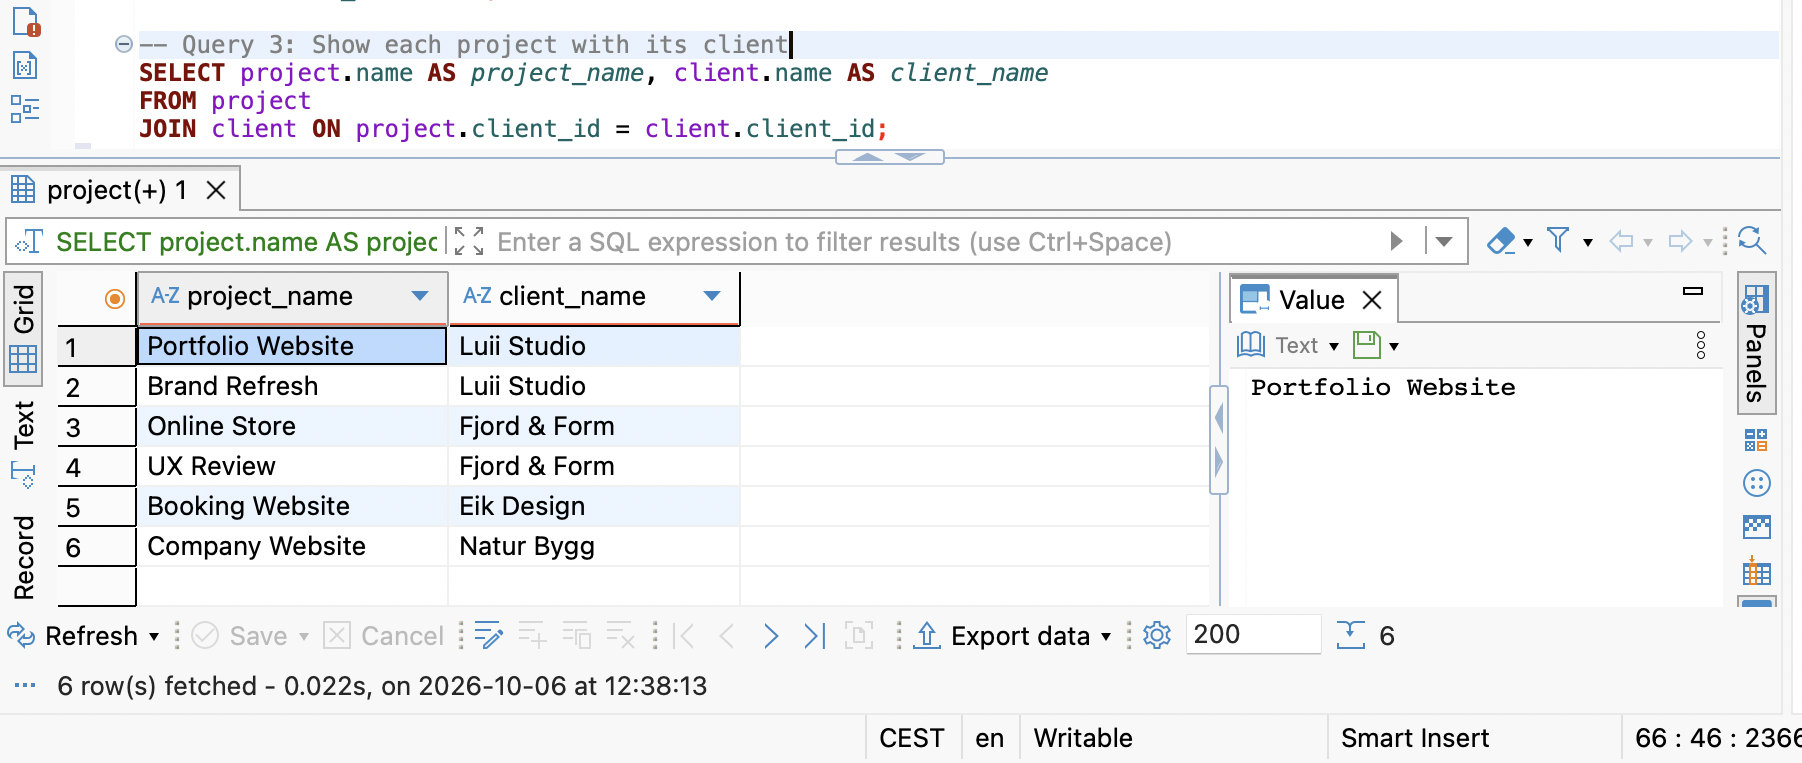
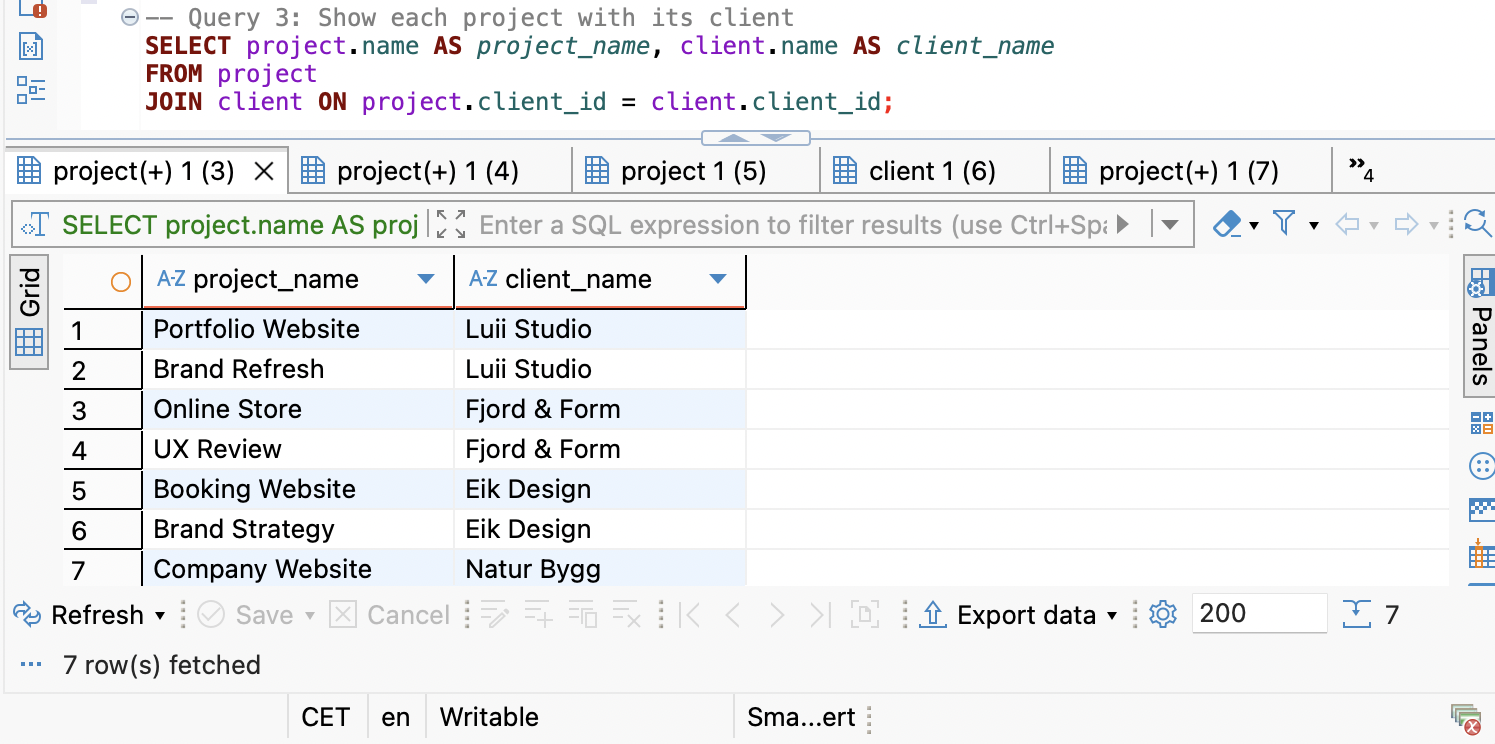
Improve test data and queries based on feedback

diff --git a/README.md b/README.md
@@ -28,7 +28,7 @@ This query combines project and client data to show which client each project be
 
 #### Aggregate Function and GROUP BY
 
-This query calculates the total service cost for each project using `SUM` and `GROUP BY`.
+This query calculates the total service cost and counts the services assigned to each project using SUM, COUNT, and GROUP BY. Only projects with assigned services are included.
 
 ![GROUP BY query result](docs/query5_total_cost.png)
 
@@ -43,6 +43,14 @@ This query counts the projects for each client and uses `HAVING` to show clients
 This query uses a subquery to find service entries with a price above the average service price.
 
 ![Subquery result](docs/query7_subquery.png)
+
+### Improvements After Feedback
+
+I added a planned project, Brand Strategy, so the test data still includes active, completed, and planned projects after the UPDATE statement.
+
+Query 1 now shows active projects with their clients, ordered by start date. Query 2 shows planned projects starting from November 2026, including the client for each project.
+
+I combined the total service cost and service count into Query 5 because they use the same join and grouping. Query 8 now finds projects without assigned services using LEFT JOIN and IS NULL. Brand Strategy provides a test case for this query.
 
 ### How to Run
 
@@ -62,7 +70,9 @@ A running PostgreSQL server and a database client such as DBeaver are required.
 
 ### Setup and Testing
 
-The database was created using PostgreSQL running in Docker and tested through DBeaver. The database setup was tested from scratch by running `schema.sql` followed by `data.sql`. All eight queries in `queries.sql` were then executed successfully against the populated database.
+The database runs in PostgreSQL using Docker and is tested through DBeaver.
+
+After the improvements, the complete setup was tested in a separate empty database named studio_wr2_test. I ran schema.sql, followed by data.sql, and then all eight queries in queries.sql. All scripts completed without errors, and the query results matched the expected data.
 
 ## Work Requirement 1
 
